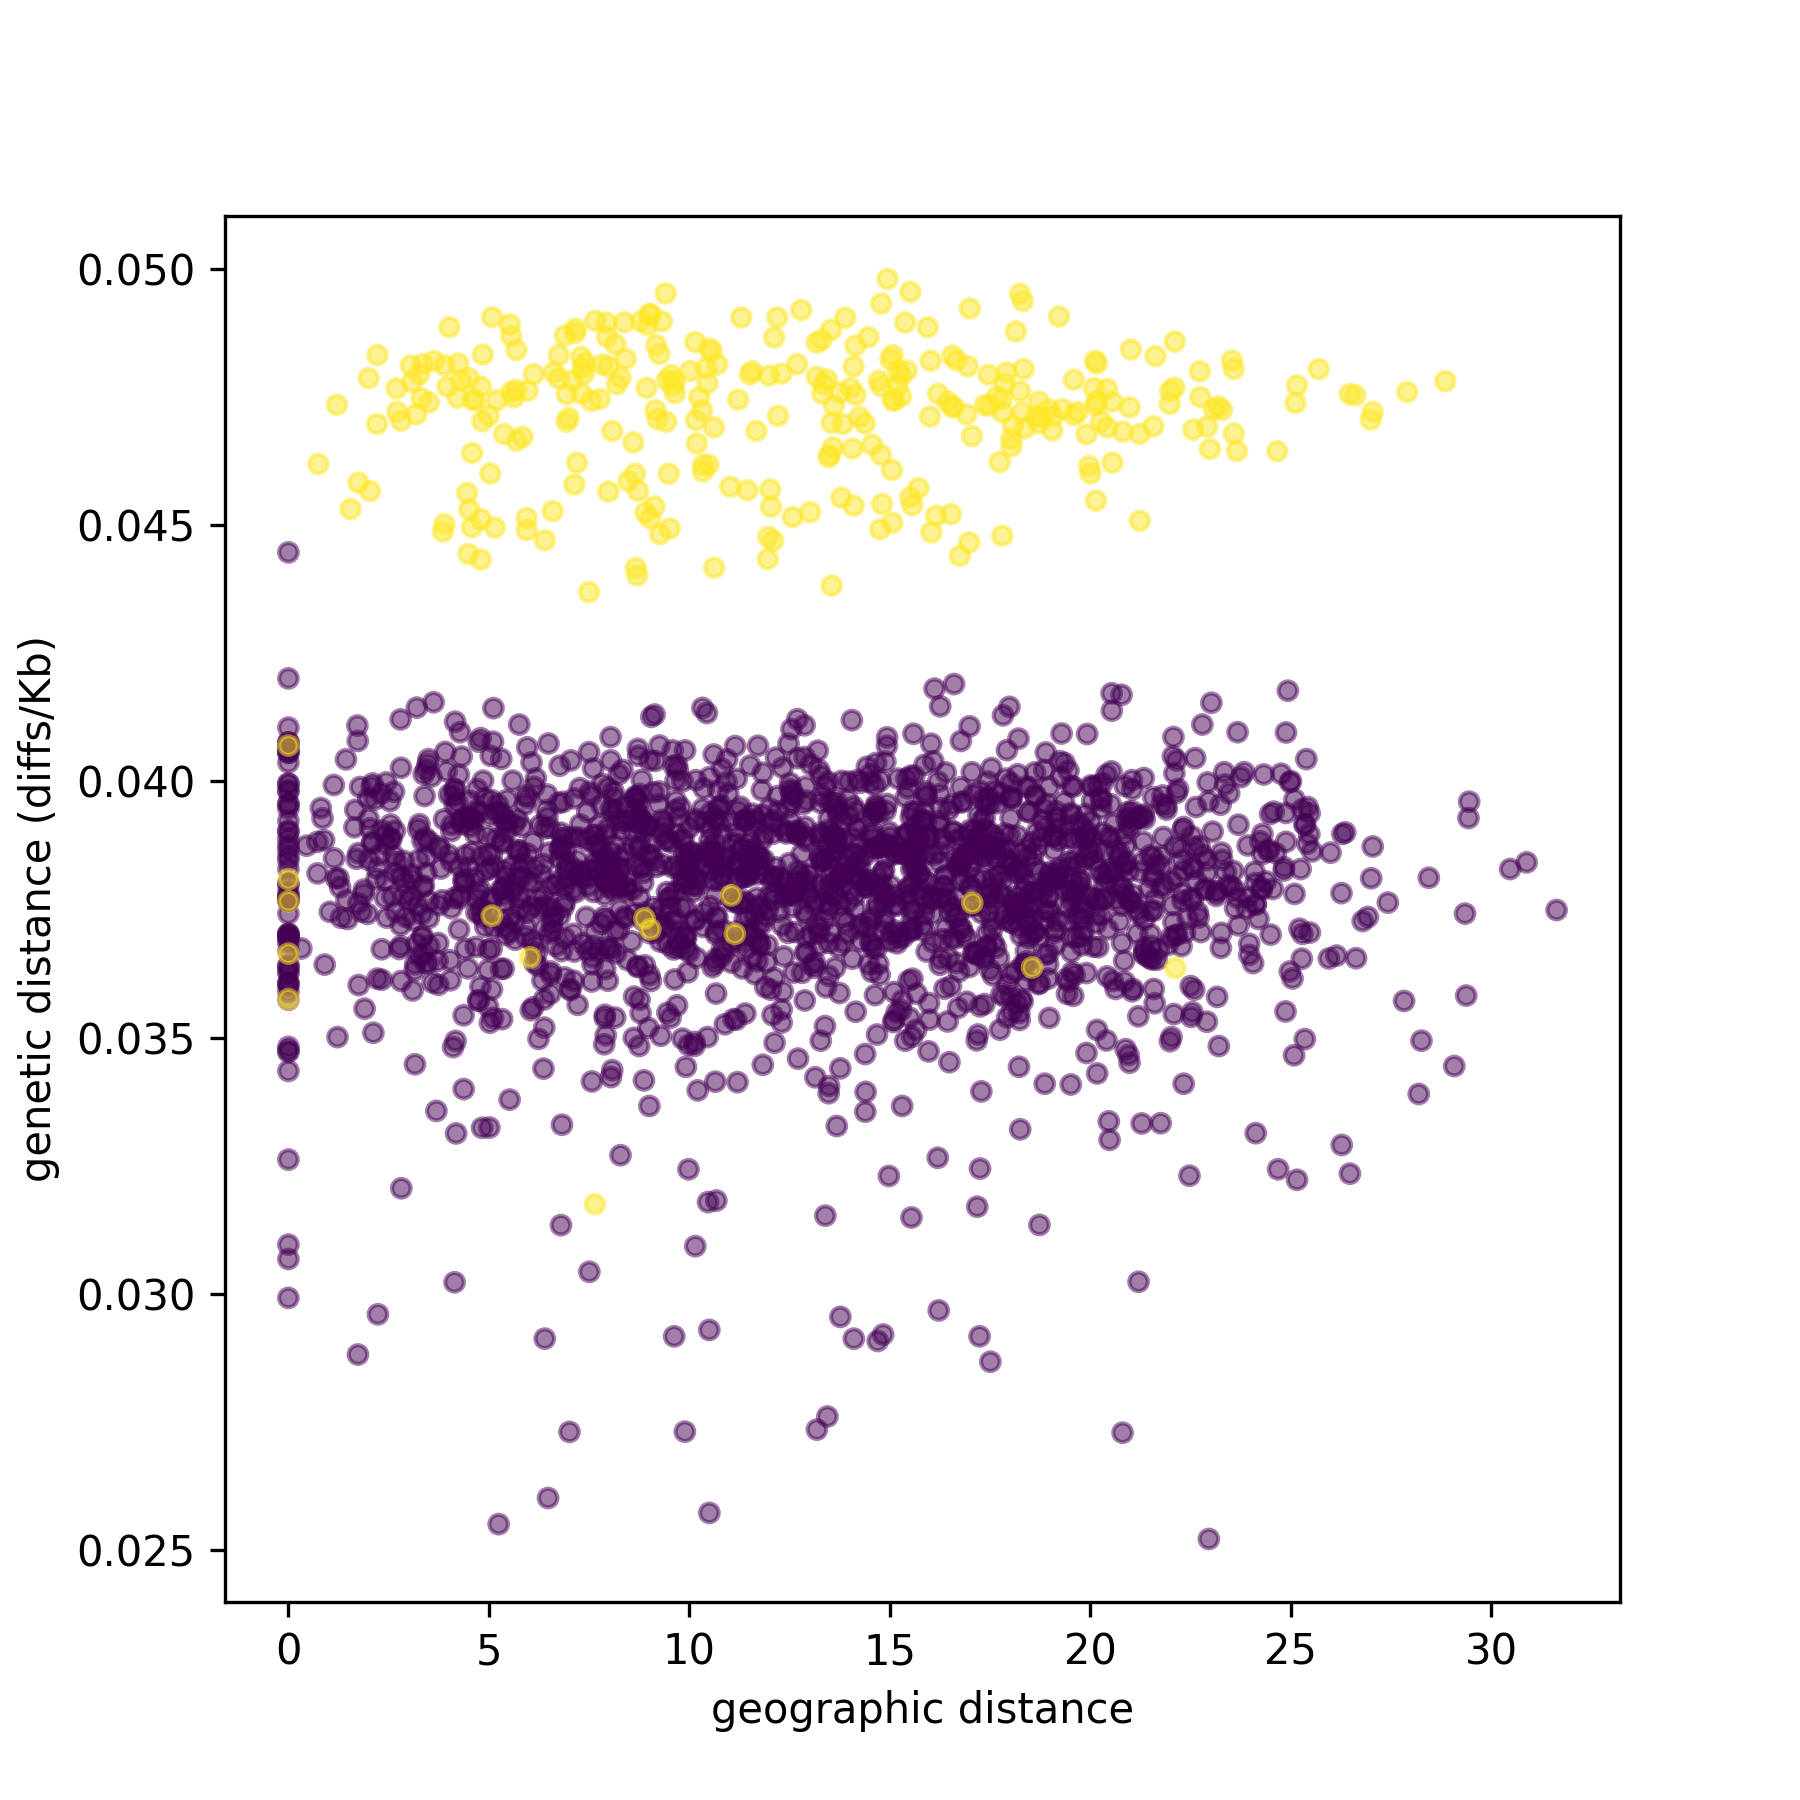
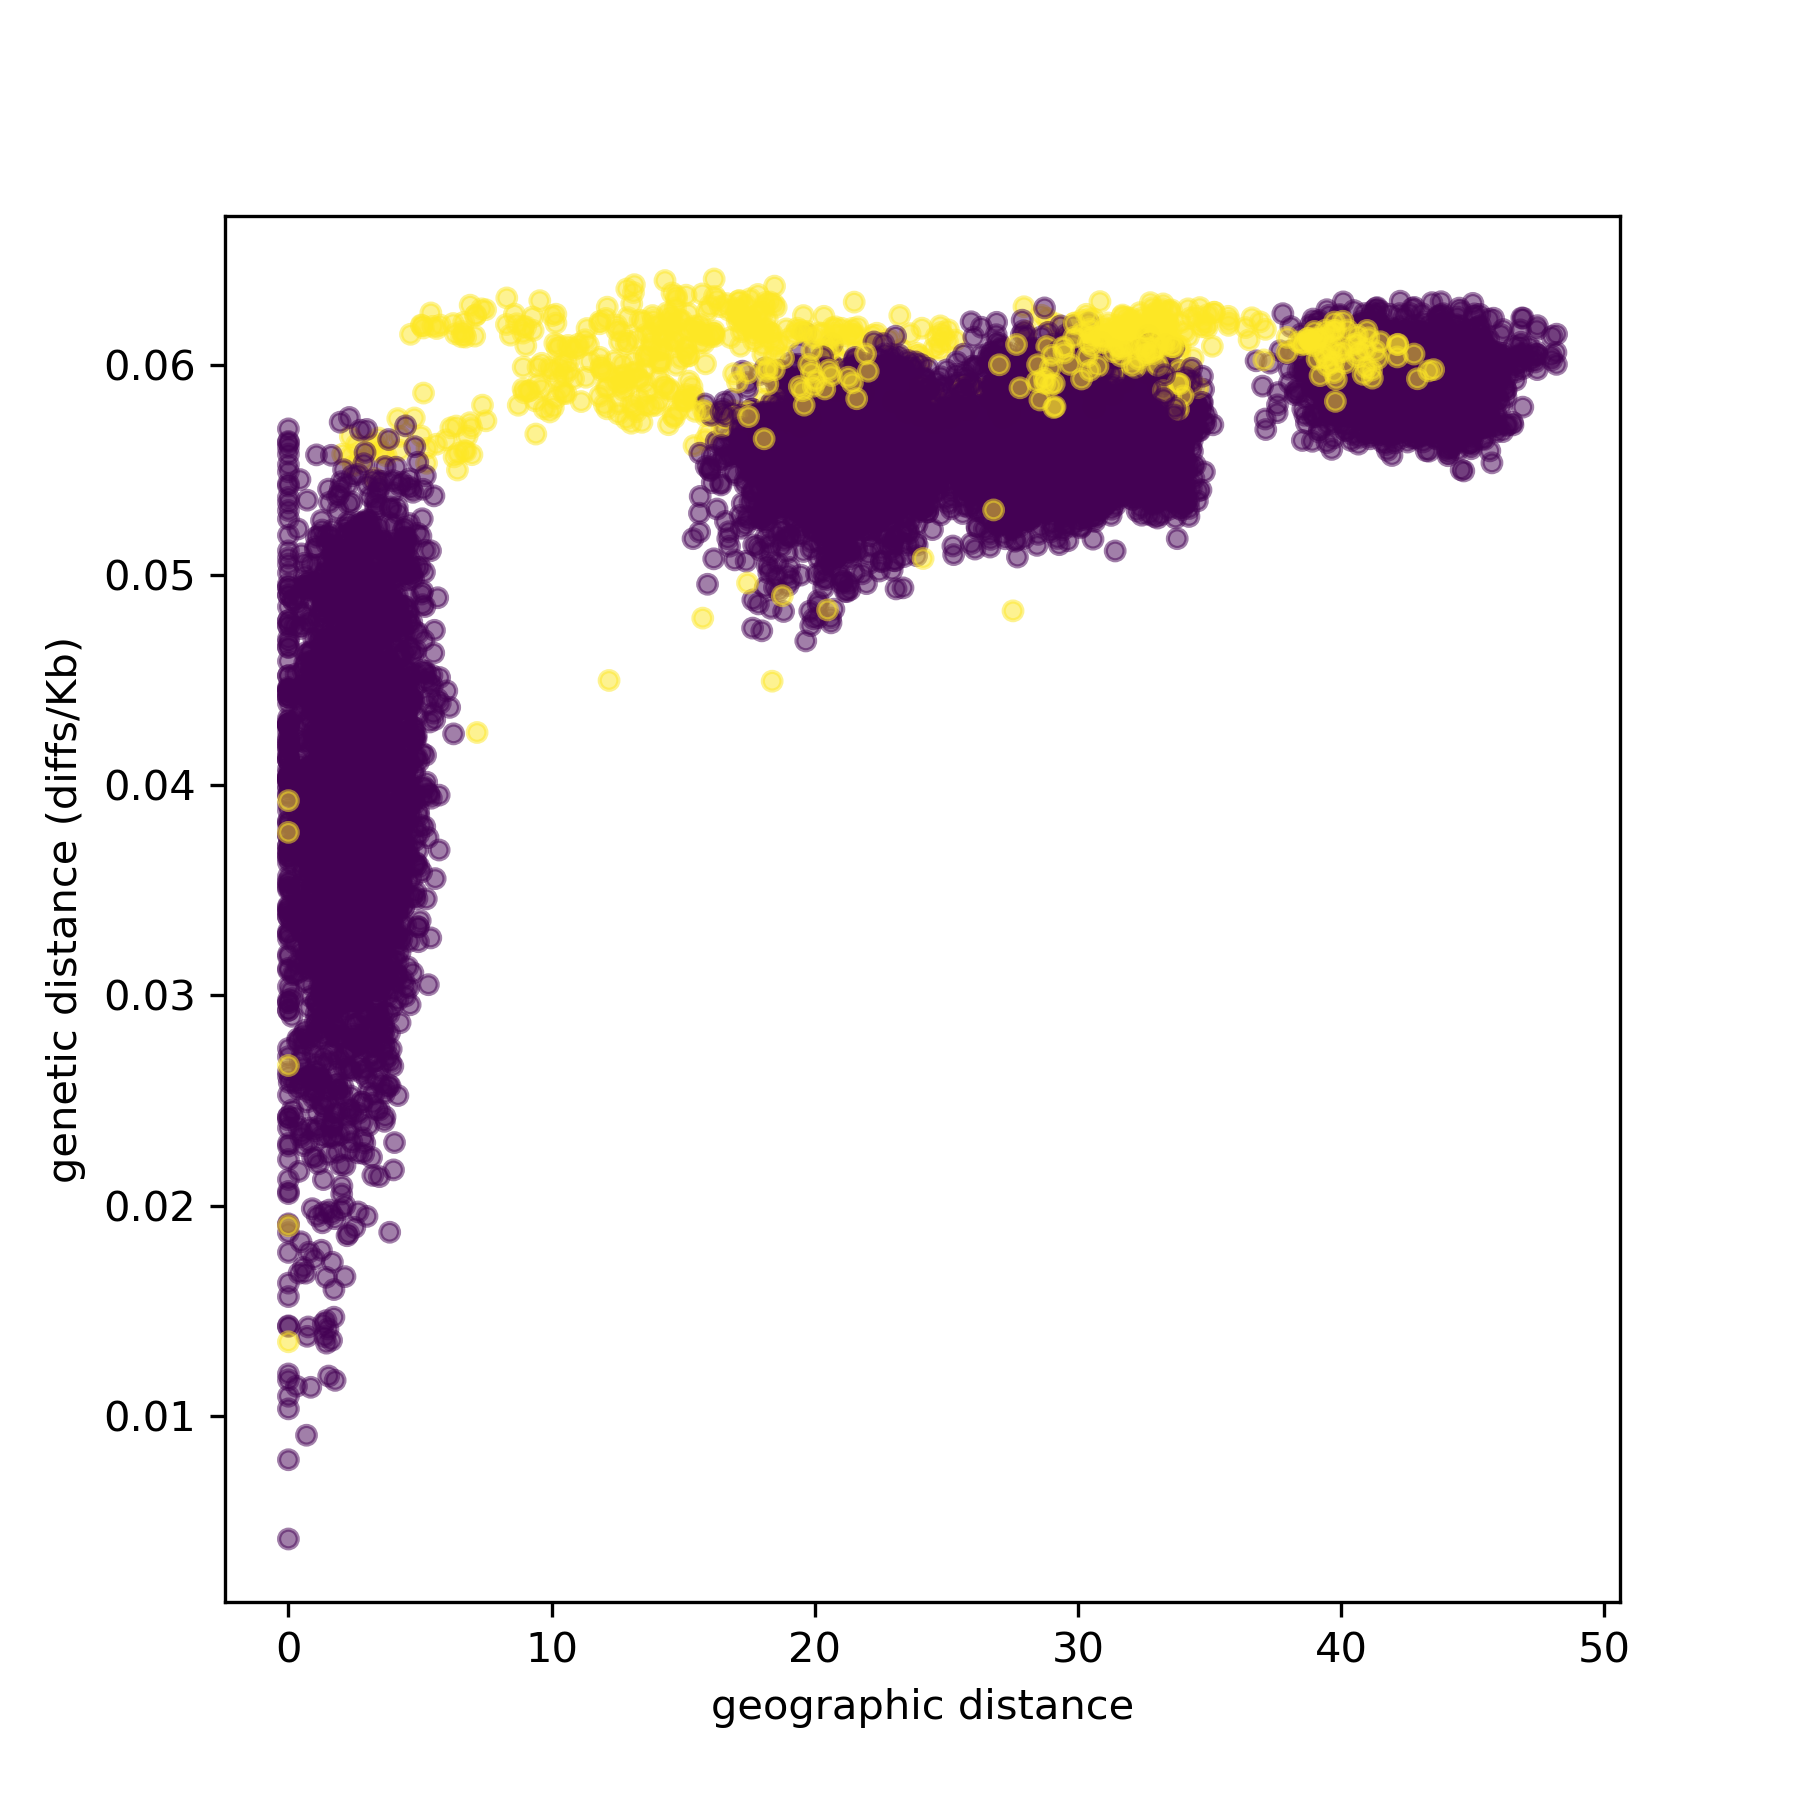
space vignette fixup

diff --git a/docs/vignette_space.rst b/docs/vignette_space.rst
@@ -48,14 +48,15 @@ Running this code, we get
 
 .. code-block:: none
 
-   The tree sequence has 23908 trees on a genome of length 100000000.0,
-   1547 individuals, 3094 'sample' genomes, and 0 mutations.
+   The tree sequence has 37095 trees on a genome of length 100000000.0,
+   2712 individuals, 5424 'sample' genomes, and 0 mutations.
+
 
 It makes sense we have no mutations: we haven't added any yet.
-The tree sequence is recording the relationship between 3,094 genomes (the "samples"),
-which requires 23,908 distinct trees along the genome.
+The tree sequence is recording the relationship between 5,424 genomes (the "samples"),
+which requires 37,095 distinct trees along the genome.
 Individuals are diploid, which explains why the number of individuals
-is equal to twice the number of samples.
+is equal to half the number of samples.
 Let's have a look at how old those individuals are,
 by tabulating when they were born:
 
@@ -68,38 +69,39 @@ This gets us
 
 .. code-block:: none
 
-   There are 383 individuals from time 0.0.
-   There are 190 individuals from time 1.0.
-   There are 88 individuals from time 2.0.
-   There are 41 individuals from time 3.0.
-   There are 24 individuals from time 4.0.
-   There are 17 individuals from time 5.0.
-   There are 3 individuals from time 6.0.
-   There are 3 individuals from time 7.0.
-   There are 1 individuals from time 8.0.
-   There are 1 individuals from time 10.0.
-   There are 389 individuals from time 1000.0.
-   There are 200 individuals from time 1001.0.
-   There are 99 individuals from time 1002.0.
-   There are 48 individuals from time 1003.0.
-   There are 30 individuals from time 1004.0.
-   There are 19 individuals from time 1005.0.
-   There are 6 individuals from time 1006.0.
-   There are 2 individuals from time 1007.0.
-   There are 2 individuals from time 1008.0.
-   There are 1 individuals from time 1017.0.
+    There are 687 individuals from time 0.0.
+    There are 343 individuals from time 1.0.
+    There are 167 individuals from time 2.0.
+    There are 94 individuals from time 3.0.
+    There are 44 individuals from time 4.0.
+    There are 27 individuals from time 5.0.
+    There are 9 individuals from time 6.0.
+    There are 4 individuals from time 7.0.
+    There are 1 individuals from time 8.0.
+    There are 2 individuals from time 9.0.
+    There are 668 individuals from time 1000.0.
+    There are 334 individuals from time 1001.0.
+    There are 165 individuals from time 1002.0.
+    There are 84 individuals from time 1003.0.
+    There are 51 individuals from time 1004.0.
+    There are 10 individuals from time 1005.0.
+    There are 11 individuals from time 1006.0.
+    There are 6 individuals from time 1007.0.
+    There are 2 individuals from time 1008.0.
+    There are 1 individuals from time 1009.0.
+    There are 2 individuals from time 1010.0.
 
 
 These "times" record the birth times of each individual.
 These are *tskit* times, which are in units of "time ago",
-so for instance, there are 190 individuals born one time unit before the end of the simulation
-and 88 born two time units before the end of the simulation.
+so for instance, there are 343 individuals born one time unit before the end of the simulation
+and 167 born two time units before the end of the simulation.
 (This confusing choice of units is because tskit was developed for msprime, a coalescent simulator.)
 This also tells us that there's a bunch of individuals born around 1000 time steps ago,
 when we asked SLiM to Remember everyone alive at the time,
 and some more in the past few time steps, i.e., the present.
 This is a non-Wright-Fisher simulation,
-and so individuals may live for more than one time step (even up to age 17, it seems).
+and so individuals may live for more than one time step (even up to age 10, it seems).
 Let's check that all these individuals are alive at either (a) today or (b) 1000 time steps ago.
 
 .. code-block:: python
@@ -113,10 +115,10 @@ This tells us that
 
 .. code-block:: none
 
-   There were 751 individuals alive 0 time steps in the past.
-   There were 796 individuals alive 1000 time steps in the past.
+    There were 1378 individuals alive 0 time steps in the past.
+    There were 1334 individuals alive 1000 time steps in the past.
 
-And, 751 + 796 is 1547, the total number of individuals.
+And, 1378 + 1334 is 2712, the total number of individuals.
 So, this all checks out.
 
 
@@ -138,7 +140,7 @@ In fact, *no* segments of the genome have coalesced:
    >> sum([t.num_roots == 1 for t in slim_ts.trees()])
    0
    >>> sum([t.num_roots > 0 for t in slim_ts.trees()])
-   23908
+   37095
 
 Next, we will:
 
@@ -175,7 +177,7 @@ resulting in
 
 .. code-block:: none
 
-   The tree sequence now has 29379 trees, and 55993 mutations.
+    The tree sequence now has 45160 trees, and 93280 mutations.
 
 .. note::
 
@@ -197,11 +199,11 @@ Take a sample of individuals
 Now it's time to compute some things.
 In real life we don't get to work with *everyone* usually,
 so we'll take a subset of individuals.
-The range we have simulated has width and height 25 units,
+The range we have simulated has width and height 35 units,
 with a population density of around 1 per unit area.
 We'll get genomes to work with by pulling out
 
-1. All the modern individuals in the five squares of width 3 in the corners of the range
+1. All the modern individuals in the five squares of width 5 in the corners of the range
    and the center, and
 2. Five individuals sampled randomly from everyone alive 1000 time steps ago.
 
@@ -213,8 +215,8 @@ We'll get genomes to work with by pulling out
    alive = ts.individuals_alive_at(0)
    locs = ts.individual_locations[alive, :]
 
-   W = 25
-   w = 3
+   W = 35
+   w = 5
    groups = {
       'topleft' : alive[np.logical_and(locs[:, 0] < w, locs[:, 1] < w)],
       'topright' : alive[np.logical_and(locs[:, 0] < w, locs[:, 1] > W - w)],
@@ -233,19 +235,19 @@ We'll get genomes to work with by pulling out
 
 .. code-block:: none
 
-   We have 12 individuals in the topleft group.
-   We have 14 individuals in the topright group.
-   We have 15 individuals in the bottomleft group.
-   We have 15 individuals in the bottomright group.
-   We have 5 individuals in the center group.
-   We have 5 individuals in the ancient group.
+    We have 36 individuals in the topleft group.
+    We have 34 individuals in the topright group.
+    We have 30 individuals in the bottomleft group.
+    We have 29 individuals in the bottomright group.
+    We have 24 individuals in the center group.
+    We have 5 individuals in the ancient group.
 
 To keep names associated with each subset of individuals,
 we've kept the individuals in a dict, so that for instance
 ``groups["topleft"]`` is an array of all the individual IDs that are in the top left corner.
 The IDs of the ancient individuals we will work with are kept in the array ``ancient``.
 
-Let's do a quick sanity check, that everyone in ``ancient`` was actually born around 1000 time steps ago:
+Let's do a quick consistency check, that everyone in ``ancient`` was actually born around 1000 time steps ago:
 
 .. code-block:: python
 
@@ -273,17 +275,17 @@ by indexing the rows of the individual location array:
 .. code-block:: none
 
    >>> ts.individual_locations
-   array([[ 6.72073019, 12.46786203,  0.        ],
-          [22.05001957,  4.56404005,  0.        ],
-          [24.5604073 ,  0.98884149,  0.        ],
-          ...,
-          [ 4.83666331,  9.70190874,  0.        ],
-          [15.22838762,  4.74636416,  0.        ],
-          [ 4.94981476, 14.35774083,  0.        ]])
+    array([[12.95327106, 10.6956274 ,  0.        ],
+           [10.45240784, 34.81249943,  0.        ],
+           [26.2278031 , 23.20632444,  0.        ],
+           ...,
+           [30.21201837, 20.9920904 ,  0.        ],
+           [ 1.38658573, 17.6933384 ,  0.        ],
+           [ 5.42651858, 12.30457856,  0.        ]])
    >>> ts.individual_locations.shape
-   (1547, 3)
+   (2712, 3)
    >>> ts.individual_locations[groups["topleft"], :].shape
-   (12, 3)
+   (9, 3)
 
 
 Using this, we can easily plot the locations of all the individuals from today
@@ -343,21 +345,21 @@ For instance, here's what we have for the five "ancient" individuals:
    >>> for i in groups['ancient']:
    ...   print(ts.individual(i))
    ... 
-   {'id': 1346, 'flags': 131072, 'location': array([20.90314355,  3.20240965,  0.        ]),
-    'nodes': array([1190, 1191], dtype=int32), 'population': 1, 'time': 1000.0,
-    'metadata': {pedigree_id": 814660, age": 0, population": 1, sex": -1, flags": 0}}
-   {'id': 1493, 'flags': 131072, 'location': array([12.26740846,  1.07346219,  0.        ]),
-    'nodes': array([1484, 1485], dtype=int32), 'population': 1, 'time': 1000.0,
-    'metadata': {"pedigree_id": 814951, "age": 0, "population": 1, "sex": -1, "flags": 0)}
-   {'id': 791, 'flags': 131072, 'location': array([12.46965163, 24.09913306,  0.        ]),
-    'nodes': array([80, 81], dtype=int32), 'population': 1, 'time': 1004.0,
-     'metadata': {"pedigree_id": 811245, "age": 4, "population": 1, "sex": -1, "flags": 0)}
-   {'id': 1239, 'flags': 131072, 'location': array([ 2.86034925, 23.946206  ,  0.        ]),
-    'nodes': array([976, 977], dtype=int32), 'population': 1, 'time': 1000.0,
-    'metadata': {"pedigree_id": 814407, "age": 0, "population": 1, "sex": -1, "flags": 0)}
-   {'id': 782, 'flags': 131072, 'location': array([4.39645586, 9.4739672 , 0.        ]),
-    'nodes': array([62, 63], dtype=int32), 'population': 1, 'time': 1004.0,
-    'metadata': {"pedigree_id": 811055, "age": 4, "population": 1, "sex": -1, "flags": 0)}
+   {'id': 1427, 'flags': 131072, 'location': array([24.6693165,  0.4198795,  0.       ]),
+    'nodes': array([98, 99], dtype=int32), 'population': 1, 'time': 1004.0,
+    'metadata': {'pedigree_id': 1299347, 'age': 4, 'subpopulation': 1, 'sex': -1, 'flags': 0}}
+   {'id': 1837, 'flags': 131072, 'location': array([21.3849923 , 12.74527713,  0.        ]),
+    'nodes': array([918, 919], dtype=int32), 'population': 1, 'time': 1001.0,
+    'metadata': {'pedigree_id': 1303415, 'age': 1, 'subpopulation': 1, 'sex': -1, 'flags': 0}}
+   {'id': 2594, 'flags': 131072, 'location': array([13.17510948, 27.74727477,  0.        ]),
+    'nodes': array([2432, 2433], dtype=int32), 'population': 1, 'time': 1000.0,
+    'metadata': {'pedigree_id': 1305382, 'age': 0, 'subpopulation': 1, 'sex': -1, 'flags': 0}}
+   {'id': 2414, 'flags': 131072, 'location': array([17.50087554, 19.63608325,  0.        ]),
+    'nodes': array([2072, 2073], dtype=int32), 'population': 1, 'time': 1000.0,
+    'metadata': {'pedigree_id': 1305045, 'age': 0, 'subpopulation': 1, 'sex': -1, 'flags': 0}}
+   {'id': 1911, 'flags': 131072, 'location': array([9.6343188 , 6.82903893, 0.        ]),
+    'nodes': array([1066, 1067], dtype=int32), 'population': 1, 'time': 1001.0,
+    'metadata': {'pedigree_id': 1303711, 'age': 1, 'subpopulation': 1, 'sex': -1, 'flags': 0}}
 
 Notice that among other things, each individual carries around a list of their node IDs,
 i.e., their genomes.
@@ -374,16 +376,16 @@ we'll have to do some extra work to make sure we keep track of order.
       for ind in groups[k]:
          sampled_nodes[j].extend(ts.individual(ind).nodes)
 
-Let's do a sanity check: the number of nodes in each element of this list
+Let's do a consistency check: the number of nodes in each element of this list
 should be twice the number of individuals in the corresponding list.
 
 .. code-block:: none
 
    >>> [len(groups[k]) for k in groups]
-   [12, 14, 15, 15, 5, 5]
+   [9, 12, 13, 10, 6, 5]
 
    >>> [len(u) for u in sampled_nodes]
-   [24, 28, 30, 30, 10, 10]
+   [18, 24, 26, 20, 12, 10]
    
 So, in the 'topleft' corner there are 12 diploids. That checks out.   
 
@@ -403,12 +405,12 @@ This is done using the :meth:`ts.divergence <tskit.TreeSequence.divergence>` met
 
 .. code-block:: none
 
-   topleft:	3.66e-05	3.78e-05	3.87e-05	3.79e-05	3.80e-05	4.71e-05
-   topright:	3.78e-05	3.68e-05	3.87e-05	3.79e-05	3.79e-05	4.72e-05
-   bottomleft:	3.87e-05	3.87e-05	3.69e-05	3.81e-05	3.84e-05	4.75e-05
-   bottomright:	3.79e-05	3.79e-05	3.81e-05	3.67e-05	3.77e-05	4.71e-05
-   center:	3.80e-05	3.79e-05	3.84e-05	3.77e-05	3.80e-05	4.69e-05
-   ancient:	4.71e-05	4.72e-05	4.75e-05	4.71e-05	4.69e-05	3.67e-05
+    topleft:     3.69e-05    5.58e-05    5.57e-05    6.03e-05    5.56e-05    5.9e-05
+    topright:    5.58e-05    3.86e-05    5.83e-05    5.83e-05    5.55e-05    6.06e-05
+    bottomleft:  5.57e-05    5.83e-05    4.5e-05     5.79e-05    5.63e-05    6.02e-05
+    bottomright: 6.03e-05    5.83e-05    5.79e-05    3.18e-05    5.6e-05     6.14e-05
+    center:      5.56e-05    5.55e-05    5.63e-05    5.6e-05     4.73e-05    6.09e-05
+    ancient:     5.9e-05     6.06e-05    6.02e-05    6.14e-05    6.09e-05    4.56e-05
 
 
 That's nice, but to look at isolation by distance,
@@ -421,13 +423,15 @@ and to keep track of which group each one belongs to.
 
    ind_nodes = []
    ind_group = []
+   ind_ids = []
    for j, group in enumerate(group_order):
       for ind in groups[group]:
+         ind_ids.append(ind)
          ind_nodes.append(ts.individual(ind).nodes)
          ind_group.append(group_order[j])
 
-   nind = len(ind_nodes)
-   pairs = [(i, j) for i in range(nind) for j in range(nind) if i <= j]
+   nind = len(ind_ids)
+   pairs = [(i, j) for i in range(nind) for j in range(i, nind)]
    ind_div = ts.divergence(ind_nodes, indexes=pairs)
 
 Here we've only computed divergences in the *upper triangle* of the pairwise divergence matrix,
@@ -439,7 +443,7 @@ We'll also need pairwise geographic distances:
    geog_dist = np.repeat(0.0, len(pairs))
    locs = ts.individual_locations
    for k, (i, j) in enumerate(pairs):
-      geog_dist[k] = np.sqrt(np.sum((locs[i, :] - locs[j, :])**2))
+      geog_dist[k] = np.sqrt(np.sum((locs[ind_ids[i], :] - locs[ind_ids[j], :])**2))
 
 Let's check that makes sense: distances of individuals from themselves should be zero.
 
@@ -475,9 +479,9 @@ Now let's plot genetic distance against geographic distance.
 
 Since we multiplied ``ind_div`` by 1,000,
 the units of genetic distance are in mean number of nucleotide differences per kilobase.
-There is *not* strong IBD in this noisy and relatively small simulation,
-but notice that the "ancient" samples are more deeply diverged from modern samples (in yellow)
-than most modern ones are from each other.
+It is clear that closer samples are more closely related,
+and the distinct clusters corresponding to the five sampled boxes are visible.
+Furthermore, ancient samples are generally more distantly diverged.
 
 
 
